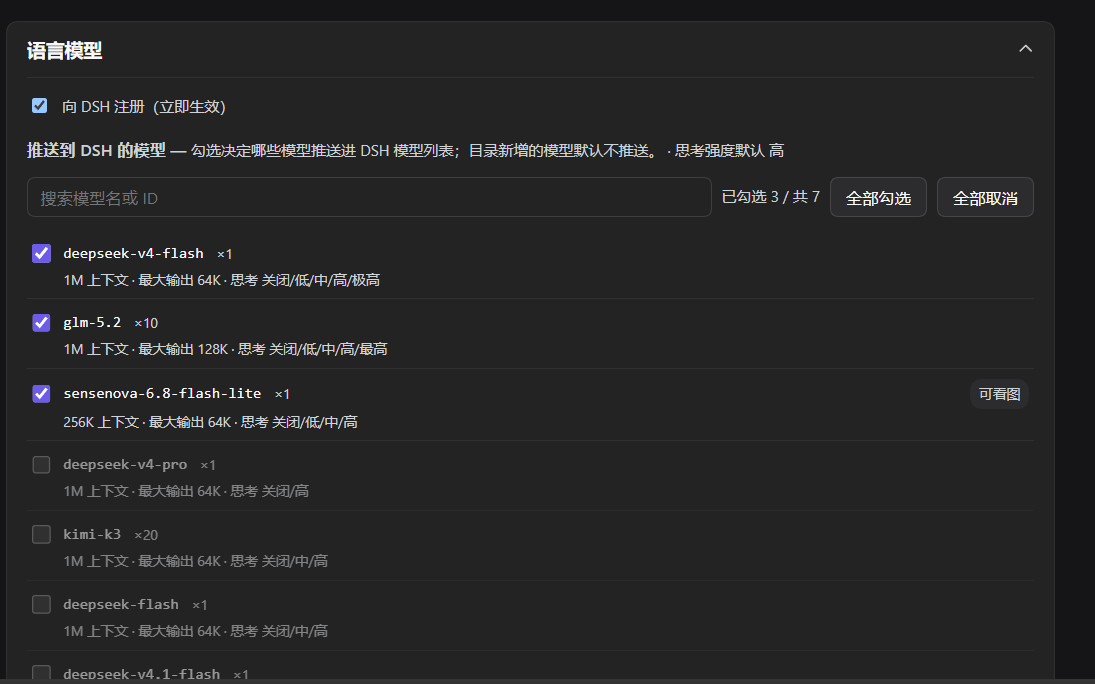
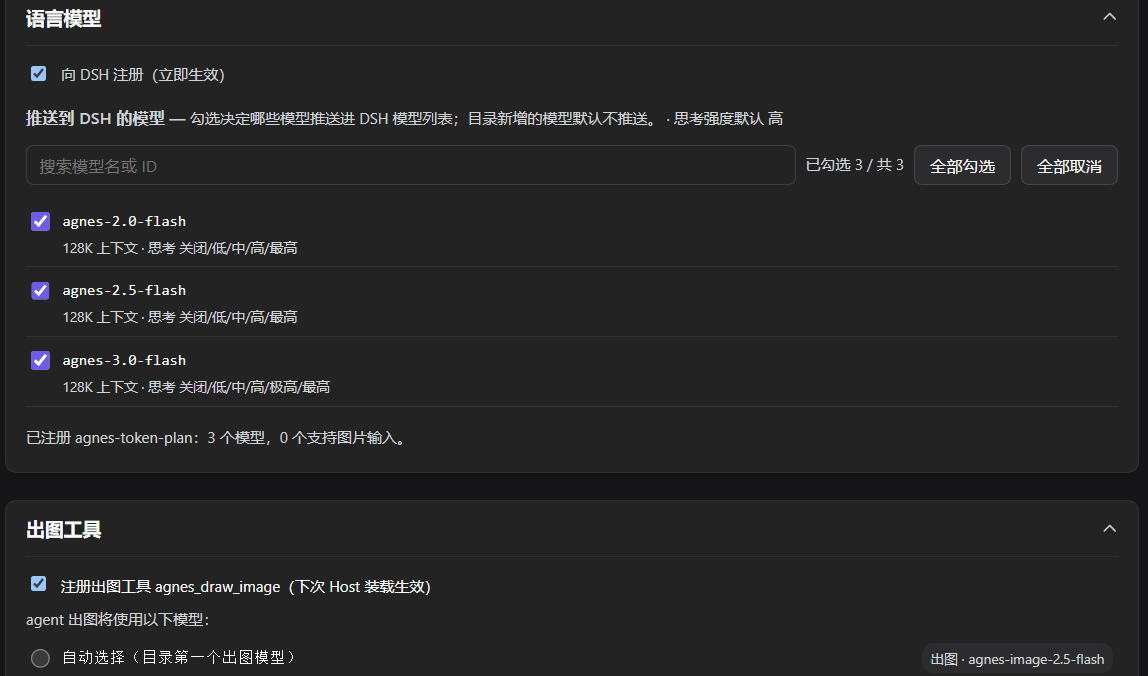
feat(panel): AgnesCode/接入 API 排版与常驻官网入口 + Host GET 自愈陈旧 not_configured
客户端（AgnesCode tab）：凭据卡片改一行式（「已关联：昵称」居左，「检测本机登录态」「解除关联」居右），积分余额与时效/永久合并为一行小字（agnescode.balanceLine，凭据有效期不并入，避免同一个截止时间读成两个），「已注册」从整句改为模型清单头部的绿色 pill。未关联时不再把发布门的预期中间态 not_configured 当红色错误渲染（agnescode.errNotConfigured 普通状态文字），其余 providerError 仍按错误渲染；/agnescode 非 2xx 把状态码写进 error，由「失败必须渲染」路径明说，而不是渲染成「未关联」。

官网入口常驻：API Key 卡片配置 Key 后也显示「前往官网管理额度 →」（与未配置时的获取入口按状态切换同一地址）；AgnesCode tab 底部常驻桌面端下载入口（AGNESCODE_SITE_URL = agnes-ai.cn/agnescode），未关联与已关联都显示——已关联账号同样要靠重开桌面 App 续期凭据。

Host（routes.ts）：GET /agnescode 原来只读不修，「开关先开、令牌后到」留下的 not_configured 会一直挂着。现在 GET 发现「开关开 + 已关联 + providerError 为 not_configured」这一陈旧组合时自动补一次发布，下一拍轮询即收敛；每 60s 至多一次（AGNESCODE_SELF_HEAL_COOLDOWN_MS），避免持续失败的发布被面板轮询反复重建适配器。手动采集仍然只在用户点击时执行（解锁桌面 App 加密会话文件是隐私敏感操作），采集之后的发布全自动。

钉子与截图：test/agnescode.test.mjs 新增 route surface 段（假 ctx 驱动真实 registerRoutes 并对 /agnescode 发 GET，钉 200 / loggedIn / payload 不带 token）；test/render.test.mjs 同步新排版。assets/panel-credit.png 与 assets/panel-API-provider.png 按 0.6.0 面板重截。

diff --git a/src/client/agnescode-tab.ts b/src/client/agnescode-tab.ts
@@ -24,7 +24,7 @@
  * {@link AgnescodeRoster}, which the suite CAN mount and pin, and this tab's
  * route is covered by `test/agnescode.test.mjs`.
  */
-import { AGNESCODE_PATH } from "./const.ts";
+import { AGNESCODE_PATH, AGNESCODE_SITE_URL } from "./const.ts";
 import { clockLong, count, format, tokenSize } from "./format.ts";
 import { postJson, postJsonOrThrow } from "./http.ts";import { h, useCallback, useEffect, useRef, useState } from "./runtime.ts";
 import type { Tt } from "./runtime.ts";
@@ -239,18 +239,27 @@ export function AgnescodeTab({ tt, onStatus }: { tt: Tt; onStatus?: (status: Tab
       h("input", { type: "checkbox", checked: enabled, disabled: harvestBusy, onChange: () => void toggle(!enabled) }),
       h("span", { style: { fontSize: 12, color: "var(--dsw-alias-label-secondary)" } }, tt("agnescode.switch"))
     ),
-    // Registration status: the switch says "wants", this line says "is".
-    // A failed registration
-    // stays visible even while the switch is OFF.
+    // Registration status: the switch says "wants", the roster header pill
+    // says "is" (小浣 shape). Only the NON-registered states stay as text
+    // lines here — a successful registration needs no sentence of its own
+    // competing with the roster it describes.
+    //
+    // `not_configured` is the publish gate's word for "switch ON, no token
+    // yet" — the EXPECTED state between ticking the switch and running the
+    // harvest. Rendered raw it looked like a failure that appeared and then
+    // vanished ("开关一下启用又消失"), so: before linking it is suppressed —
+    // the awaiting-harvest line below already says exactly that; after
+    // linking it becomes one quiet instruction, not a red alert.
     state !== null
-      ? state.providerRegistered === true
-        ? h("div", { style: { fontSize: 12, color: "var(--dsw-alias-label-secondary)" }, role: "status" },
-            format(tt("agnescode.registered"), { count: count(models.length) }))
-        : state.providerError !== undefined && state.providerError !== ""
+      ? state.providerError === "not_configured" && loggedIn
+        ? h("div", { style: { ...S.muted, fontSize: 12 }, role: "status" }, tt("agnescode.errNotConfigured"))
+        : state.providerError !== undefined && state.providerError !== "" && state.providerError !== "not_configured"
           ? h("div", { style: S.formError, role: "alert" }, state.providerError)
           : enabled && !loggedIn
             ? h("div", { style: { ...S.muted, fontSize: 12 } }, tt("agnescode.awaitingHarvest"))
-            : h("div", { style: { ...S.muted, fontSize: 12 } }, tt("agnescode.unregistered"))
+            : state.providerRegistered === true
+              ? null
+              : h("div", { style: { ...S.muted, fontSize: 12 } }, tt("agnescode.unregistered"))
       : null,
     // The credential half: the linked account (or the harvest affordance).
     // Withheld while a failed read leaves us knowing NOTHING: `state` is null,
@@ -266,22 +275,30 @@ export function AgnescodeTab({ tt, onStatus }: { tt: Tt; onStatus?: (status: Tab
             ? h(
                 "div",
                 null,
-                h("div", { style: { fontSize: 13 }, role: "status" },
-                  format(tt("agnescode.loggedIn"), { nick: String(state?.nickname ?? "") })),
-                // The per-account base and the JWT expiry are shape facts the
-                // user may need ("is my token the dead one?") — both come from
-                // the route secret-free.
+                // The 小浣 shape: state left, actions right, ONE row — the
+                // account line, the base URL and the JWT expiry are three
+                // stacked rows today and the buttons drift below them, so a
+                // linked card spends four lines to say "you are in".
+                h(
+                  "div",
+                  { style: { display: "flex", alignItems: "center", gap: 12, flexWrap: "wrap" } },
+                  h("div", { style: { fontSize: 13 }, role: "status" },
+                    format(tt("agnescode.loggedIn"), { nick: String(state?.nickname ?? "") })),
+                  h("span", { style: S.spacer }),
+                  h("button", { type: "button", style: S.button, onClick: () => void harvest(), disabled: harvestBusy },
+                    harvestBusy ? tt("agnescode.harvesting") : tt("agnescode.harvest")),
+                  h("button", { type: "button", style: S.button, onClick: () => void logout() }, tt("agnescode.logout"))
+                ),
+                // Shape facts the user may need ("is my token the dead one?") —
+                // both from the route secret-free, quiet lines under the row.
                 state?.bffBase !== undefined && state?.bffBase !== ""
-                  ? h("div", { style: { ...S.muted, fontSize: 12, marginTop: 4, wordBreak: "break-all" } },
+                  ? h("div", { style: { ...S.muted, fontSize: 12, marginTop: 6, wordBreak: "break-all" } },
                       format(tt("agnescode.bffBase"), { base: state.bffBase }))
                   : null,
                 typeof state?.expiresAtMs === "number" && state.expiresAtMs > 0
-                  ? h("div", { style: { ...S.muted, fontSize: 12, marginTop: 4 } },
+                  ? h("div", { style: { ...S.muted, fontSize: 12, marginTop: 2 } },
                       format(tt("agnescode.expiresAt"), { time: clockLong(state.expiresAtMs) }))
-                  : null,
-                h("button", { type: "button", style: { ...S.button, marginTop: 8 }, onClick: () => void harvest(), disabled: harvestBusy },
-                  harvestBusy ? tt("agnescode.harvesting") : tt("agnescode.harvest")),
-                h("button", { type: "button", style: { ...S.button, marginTop: 8, marginLeft: 8 }, onClick: () => void logout() }, tt("agnescode.logout"))
+                  : null
               )
             : h(
                 "div",
@@ -317,7 +334,9 @@ export function AgnescodeTab({ tt, onStatus }: { tt: Tt; onStatus?: (status: Tab
       ? h("div", { style: { ...S.formNote, fontSize: 12, marginTop: 8 }, role: "status" }, note)
       : null,
     // The credit pool and the roster the adapter offers. The pool is a
-    // subscription pool: total, then the platform's own split. A pool the
+    // subscription pool: total, then the platform's own split, then the JWT
+    // expiry — ONE quiet line, the way the 小浣 card does it (the old two
+    // stacked lines read as two separate facts about two things). A pool the
     // route could not read (`balance === null`) draws NOTHING — a rendered
     // zero would present an unread figure as a measurement.
     loggedIn
@@ -325,27 +344,33 @@ export function AgnescodeTab({ tt, onStatus }: { tt: Tt; onStatus?: (status: Tab
           "div",
           { style: { marginTop: 12 } },
           balance !== null
-            ? h(
-                "div",
-                { style: { ...S.muted, fontSize: 12, marginBottom: 2 } },
-                format(tt("agnescode.balance"), { balance: count(balance.totalBalance ?? 0) })
-              )
-            : null,
-          balance !== null
-            ? h(
-                "div",
-                { style: { ...S.muted, fontSize: 12, marginBottom: 8 } },
-                format(tt("agnescode.balanceDetail"), {
+            ? h("div", { style: { ...S.muted, fontSize: 12, marginBottom: 8 } },
+                format(tt("agnescode.balanceLine"), {
+                  balance: count(balance.totalBalance ?? 0),
                   timeSensitive: count(balance.timeSensitiveBalance ?? 0),
                   permanent: count(balance.permanentBalance ?? 0)
-                })
-              )
+                }))
             : null,
           models.length > 0
-            ? h(AgnescodeRoster, { models, tt })
+            ? h(AgnescodeRoster, { models, registered: state?.providerRegistered === true, tt })
             : null
         )
-      : null
+      : null,
+    // The PERMANENT footer: whatever the link state, the desktop App is the
+    // thing this whole tab rides on — it needs renewing by reopening (the
+    // JWT has no refresh), and the platform hands new users limited-time
+    // credits for installing. One quiet line at the bottom, same public-URL
+    // discipline as the API tab's official-site link.
+    h(
+      "a",
+      {
+        href: AGNESCODE_SITE_URL,
+        target: "_blank",
+        rel: "noreferrer",
+        style: { display: "inline-block", marginTop: 12, paddingTop: 10, borderTop: "1px solid var(--dsw-alias-border-l1)", fontSize: 12, color: "var(--dsw-alias-label-secondary)", textDecoration: "underline", cursor: "pointer" }
+      },
+      tt("agnescode.downloadCta")
+    )
   );
 }
 
@@ -366,12 +391,22 @@ export function AgnescodeTab({ tt, onStatus }: { tt: Tt; onStatus?: (status: Tab
  * @param {import("./runtime.ts").Tt} props.tt - the dictionary.
  * @returns {unknown} the roster list element.
  */
-export function AgnescodeRoster({ models, tt }: { models: AgnescodeModel[]; tt: Tt }): unknown {
+export function AgnescodeRoster({ models, registered, tt }: { models: AgnescodeModel[]; registered?: boolean; tt: Tt }): unknown {
   const rows = Array.isArray(models) ? models : [];
   return h(
     "div",
     { style: S.modelPanel },
-    h("div", { style: { ...S.muted, fontSize: 12, marginBottom: 6 } }, format(tt("agnescode.models"), { count: count(rows.length) })),
+    // The 小浣 header: title left, registration pill right — the state of the
+    // roster rides ON the roster instead of being a sentence somewhere above.
+    h(
+      "div",
+      { style: { display: "flex", alignItems: "center", gap: 8, flexWrap: "wrap", marginBottom: 6 } },
+      h("div", { style: { ...S.muted, fontSize: 12, fontWeight: 600 } }, format(tt("agnescode.models"), { count: count(rows.length) })),
+      h("span", { style: S.spacer }),
+      registered === true
+        ? h("span", { role: "status", style: { ...S.modelBadge, color: "var(--dsw-alias-state-success-primary, var(--dsw-alias-label-secondary))" } }, tt("agnescode.registeredPill"))
+        : null
+    ),
     h(
       "ul",
       { style: S.modelList, role: "list" },

diff --git a/src/client/i18n.ts b/src/client/i18n.ts
@@ -111,6 +111,7 @@ export const zh = {
   "llm.empty": "请输入 API Key",
   "llm.footnote": "Key 只保存在 DSH 凭据中，不会写入插件目录或日志；请求时按次读取。",
   "llm.keyRegisterHint": "还没有 API Key？前往官网免费获取 →",
+  "llm.keyConsoleHint": "前往官网管理额度 →",
   "llm.ephemeral": "注意：当前 Host 没有凭据服务，Key 只保存在内存中，重启后失效。",
   "llm.keyPresent": "已配置（来源：{source}）",
   "llm.noKey": "尚未配置——在上方粘贴 API Key 并保存。",
@@ -201,17 +202,19 @@ export const zh = {
   "agnescode.loggedIn": "已关联：{nick}",
   "agnescode.bffBase": "接口地址 {base}",
   "agnescode.notLogged": "未关联——请先在 AgnesCode 桌面端登录（微信扫码），再点「检测本机登录态」。",
-  "agnescode.balance": "积分余额 {balance}",
-  // The pool is a SUBSCRIPTION pool (time-limited vs permanent), not a usage
-  // overview — the breakdown is the platform's own split, rendered as given.
-  "agnescode.balanceDetail": "时效 {timeSensitive} · 永久 {permanent}",
+  "agnescode.downloadCta": "下载 AgnesCode 桌面客户端，领取限时积分 →",
+  // ONE line for the whole pool story (小浣 shape): total, then the
+  // platform's own split. The JWT expiry is NOT here — the credential card
+  // above already says it, and a repeated date reads as two deadlines.
+  "agnescode.balanceLine": "积分余额 {balance}（时效 {timeSensitive} · 永久 {permanent}）",
   "agnescode.models": "模型（{count}）",
   // Gating is account state, not model truth — the badge states the limit
   // instead of the Host silently dropping the model.
   "agnescode.memberOnly": "会员",
-  "agnescode.registered": "已注册 agnescode 提供方：{count} 个模型。",
+  "agnescode.registeredPill": "已注册",
   "agnescode.unregistered": "未注册——勾选上方开关即可开启。",
   "agnescode.awaitingHarvest": "已启用——检测到本机登录态后即可注册模型。",
+  "agnescode.errNotConfigured": "凭据未就绪——点「检测本机登录态」重新采集后再试。",
   "agnescode.expiresAt": "凭据有效期至 {time}",
   "agnescode.error": "AgnesCode 操作失败：{error}",
   "agnescode.harvestOk": "已读取本机登录态。",
@@ -330,6 +333,7 @@ export const en: typeof zh = {
   "llm.empty": "Enter an API key",
   "llm.footnote": "The key is kept only in the DSH credentials, never in this plugin's folder or logs; it is read per request.",
   "llm.keyRegisterHint": "No API key yet? Get a free one on the official site →",
+  "llm.keyConsoleHint": "Manage your quota on the official site →",
   "llm.ephemeral": "Note: this Host has no credentials service, so the key lives in memory only and is lost on restart.",
   "llm.keyPresent": "Configured (source: {source})",
   "llm.noKey": "Not configured — paste an API key above and save.",
@@ -418,13 +422,14 @@ export const en: typeof zh = {
   "agnescode.loggedIn": "Linked: {nick}",
   "agnescode.bffBase": "API base {base}",
   "agnescode.notLogged": "Not linked — sign in inside the AgnesCode desktop App (WeChat scan) first, then run the detection.",
-  "agnescode.balance": "Credit balance {balance}",
-  "agnescode.balanceDetail": "Time-limited {timeSensitive} · permanent {permanent}",
+  "agnescode.downloadCta": "Download the AgnesCode desktop client and claim your limited-time credits →",
+  "agnescode.balanceLine": "Credit balance {balance} (time-limited {timeSensitive} · permanent {permanent})",
   "agnescode.models": "Models ({count})",
   "agnescode.memberOnly": "member",
-  "agnescode.registered": "AgnesCode registered with DSH: {count} model(s).",
+  "agnescode.registeredPill": "Registered",
   "agnescode.unregistered": "Not registered — tick the switch above.",
   "agnescode.awaitingHarvest": "Enabled — runs once a local login state is detected.",
+  "agnescode.errNotConfigured": "Credential not ready — run the detection again, then retry.",
   "agnescode.expiresAt": "Credential valid until {time}",
   "agnescode.error": "AgnesCode operation failed: {error}",
   "agnescode.harvestOk": "Local login state read.",

diff --git a/src/host/routes.ts b/src/host/routes.ts
@@ -43,6 +43,8 @@ const VIDEO_PATH = `/api/${name}/video`;
 const AGNESCODE_PATH = `/api/${name}/agnescode`;
 /** Ceiling on an AgnesCode action body: every action posts a bare `{action}`. */
 const MAX_AGNESCODE_BODY_BYTES = 2048;
+/** The GET self-heal publishes at most once per this window (see the GET branch). */
+const AGNESCODE_SELF_HEAL_COOLDOWN_MS = 60_000;
 /** Ceiling on a submitted account, so a hostile page cannot stream a body. */
 const MAX_ACCOUNT_BODY_BYTES = 4096;
 /** Ceiling on the curated allow-list: a catalogue this large is a posting accident. */
@@ -695,6 +697,10 @@ export function registerRoutes(ctx, wiring) {
   //     runs.
   let lastHarvest = null;
   let agnescodeHarvestInFlight = null;
+  // The GET self-heal's cooldown stamp (see the GET branch): one repair
+  // publish per window, so a persistently failing publish cannot rebuild the
+  // adapter on every panel poll.
+  let agnescodeSelfHealAt = 0;
   const offAgnescode = ctx.webServer.register({
     kind: "exact",
     path: AGNESCODE_PATH,
@@ -769,26 +775,6 @@ export function registerRoutes(ctx, wiring) {
         };
       };
 
-      const method = request.method === undefined ? "GET" : request.method;
-      if (method === "GET") {
-        writeJson(response, 200, await agnescodeState(), { "cache-control": "no-store" });
-        return;
-      }
-      if (method !== "POST") {
-        refuseMethod(response);
-        return;
-      }
-      const body = await readJsonBody(request, MAX_AGNESCODE_BODY_BYTES);
-      if (!body.ok) {
-        writeJson(response, 400, { ok: false, error: body.error }, { "cache-control": "no-store" });
-        return;
-      }
-      const { action } = body.value;
-      const answer = async (extra = {}) => {
-        const state = await agnescodeState();
-        writeJson(response, 200, { ...state, ...extra }, { "cache-control": "no-store" });
-      };
-
       /** Drive the registration from the CURRENT stored credential: the live
        *  catalogue wins over the fallback, the base comes from the credential
        *  (empty when there is none — the publisher's gate then releases). */
@@ -807,6 +793,44 @@ export function registerRoutes(ctx, wiring) {
           // Fallback roster is already the safe default.
         }
         await agnescodePublisher.publish(rows, bffBase);
+      };
+
+      const method = request.method === undefined ? "GET" : request.method;
+      if (method === "GET") {
+        let state = await agnescodeState();
+        // Self-heal: `not_configured` alongside a stored credential is a STALE
+        // publish (the switch was toggled before the harvest, and nothing
+        // after that failure re-ran the publish — GET used to only read). One
+        // queued publish per cooldown lets any poll repair it, so the reader
+        // never has to click anything to converge; a publish that fails again
+        // stops holding this exact condition only if it reports differently,
+        // so the cooldown keeps a persistently failing publish from rebuilding
+        // the adapter every 60 s.
+        if (
+          state.enabled === true && state.loggedIn === true
+          && state.providerError === "not_configured"
+          && Date.now() - agnescodeSelfHealAt > AGNESCODE_SELF_HEAL_COOLDOWN_MS
+        ) {
+          agnescodeSelfHealAt = Date.now();
+          await publishFromStore();
+          state = await agnescodeState();
+        }
+        writeJson(response, 200, state, { "cache-control": "no-store" });
+        return;
+      }
+      if (method !== "POST") {
+        refuseMethod(response);
+        return;
+      }
+      const body = await readJsonBody(request, MAX_AGNESCODE_BODY_BYTES);
+      if (!body.ok) {
+        writeJson(response, 400, { ok: false, error: body.error }, { "cache-control": "no-store" });
+        return;
+      }
+      const { action } = body.value;
+      const answer = async (extra = {}) => {
+        const state = await agnescodeState();
+        writeJson(response, 200, { ...state, ...extra }, { "cache-control": "no-store" });
       };
 
       // ── switch: register / deregister the AgnesCode provider with DSH ──

diff --git a/src/client/api-key-form.ts b/src/client/api-key-form.ts
@@ -129,11 +129,21 @@ export function ApiKeyForm({ llm, onDone, tt }: {
         : null,
     formError ? h("p", { style: S.formError, role: "alert" }, formError) : null,
     h("p", { style: S.formNote }, tt("llm.footnote")),
-    // No key yet is exactly when the official site is useful; a configured
-    // key needs no sign-up nudge.
-    llm?.hasApiKey !== true
-      ? h("a", { href: AGNES_SIGNUP_URL, target: "_blank", rel: "noreferrer", style: { color: "var(--dsw-alias-label-primary)", fontSize: 12, marginTop: 10, display: "inline-block", textDecoration: "underline", cursor: "pointer" } }, tt("llm.keyRegisterHint"))
-      : null
+    // The official site is ALWAYS one click away, whichever state the key is
+    // in: without a key it is where you get one; with one it is where you
+    // manage the quota that key spends. Slightly redundant with the quota
+    // tab, deliberately — leaving the panel to find the console should not
+    // require remembering a URL.
+    h(
+      "a",
+      {
+        href: AGNES_SIGNUP_URL,
+        target: "_blank",
+        rel: "noreferrer",
+        style: { color: "var(--dsw-alias-label-primary)", fontSize: 12, marginTop: 10, display: "inline-block", textDecoration: "underline", cursor: "pointer" }
+      },
+      llm?.hasApiKey === true ? tt("llm.keyConsoleHint") : tt("llm.keyRegisterHint")
+    )
   );
   // The SectionCard wrapping this form is the collapse: one fold, not
   // two. An inner `<details>` around the editor meant opening the card

diff --git a/src/client/const.ts b/src/client/const.ts
@@ -37,3 +37,10 @@ export const AGNESCODE_PATH = "/api/dsh-connect-agnes-token-plan/agnescode";
  * sends it in a credentialed request.
  */
 export const AGNES_SIGNUP_URL = "https://platform.agnes-ai.cn";
+
+/**
+ * The AgnesCode（爱思编程）product page — where the desktop App comes from.
+ * Same discipline as {@link AGNES_SIGNUP_URL}: plain public URL, opened in a
+ * new tab only, never a credentialed request target.
+ */
+export const AGNESCODE_SITE_URL = "https://agnes-ai.cn/agnescode";
